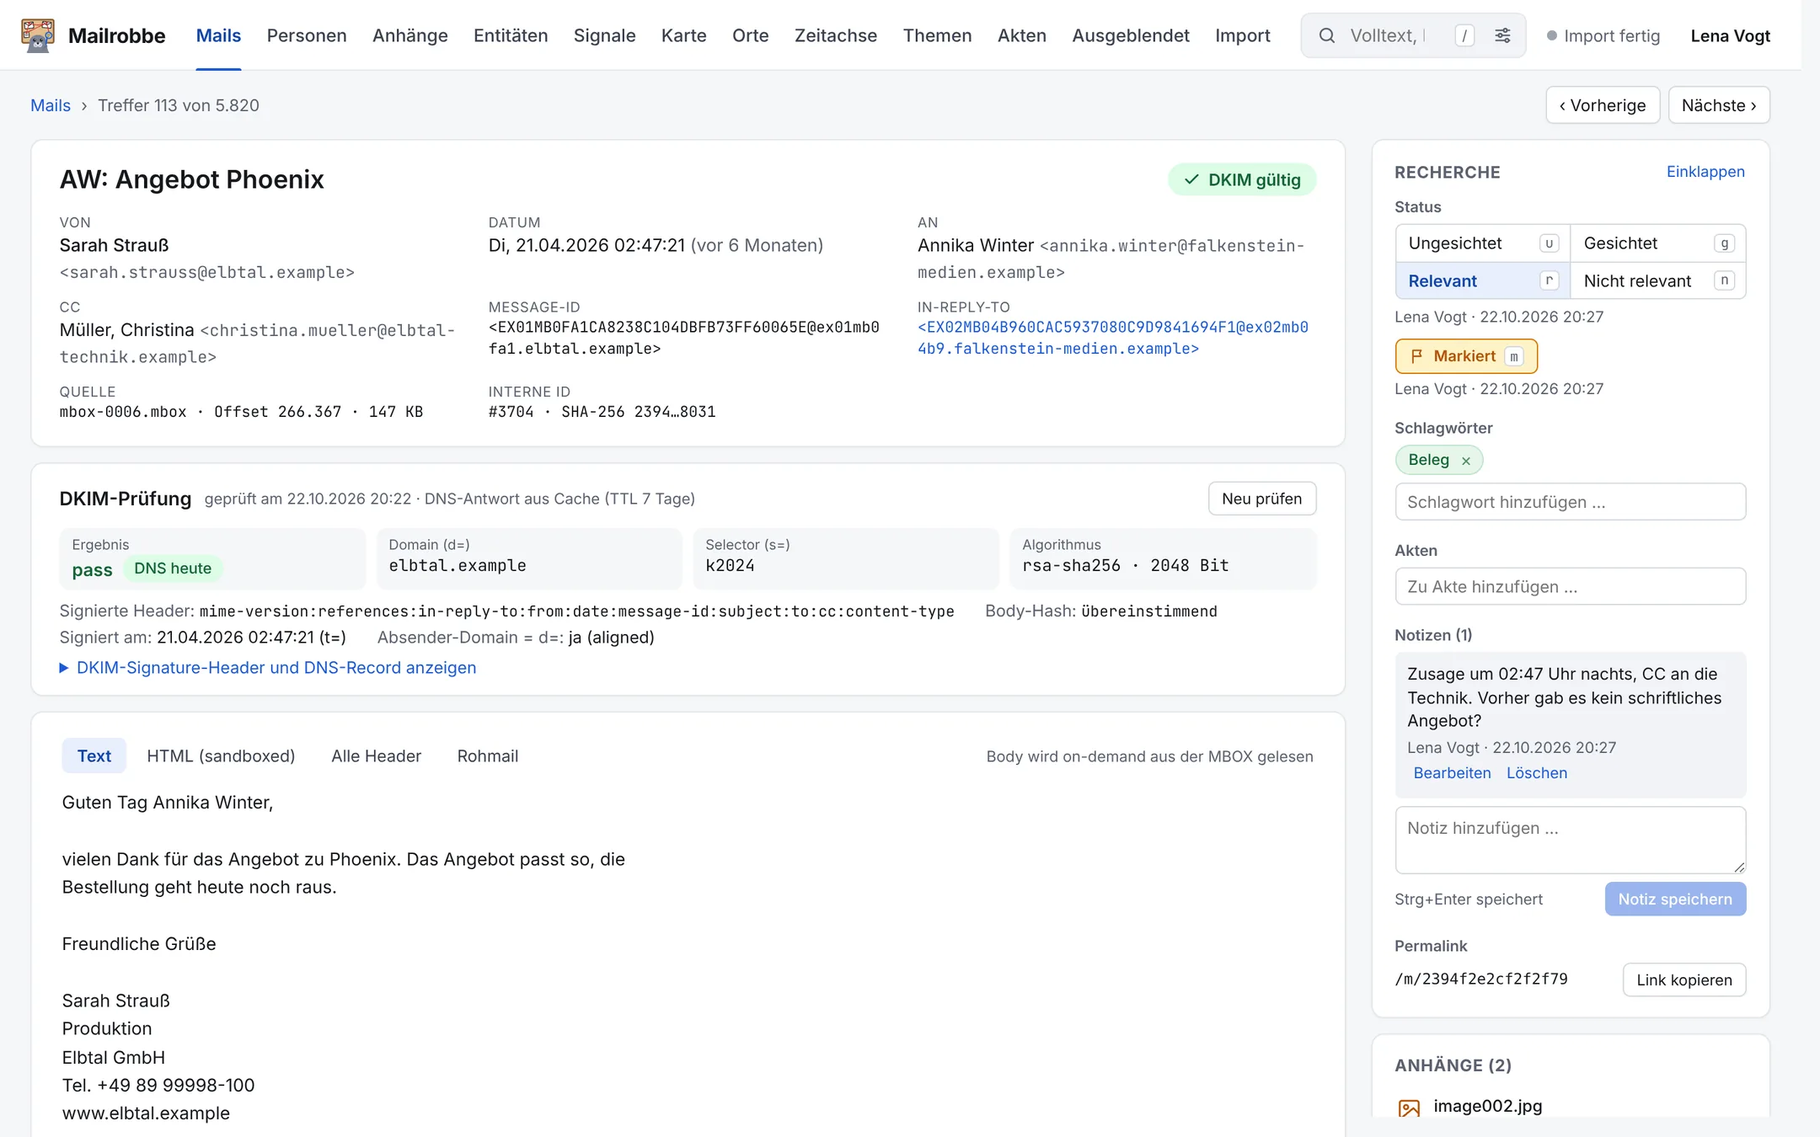
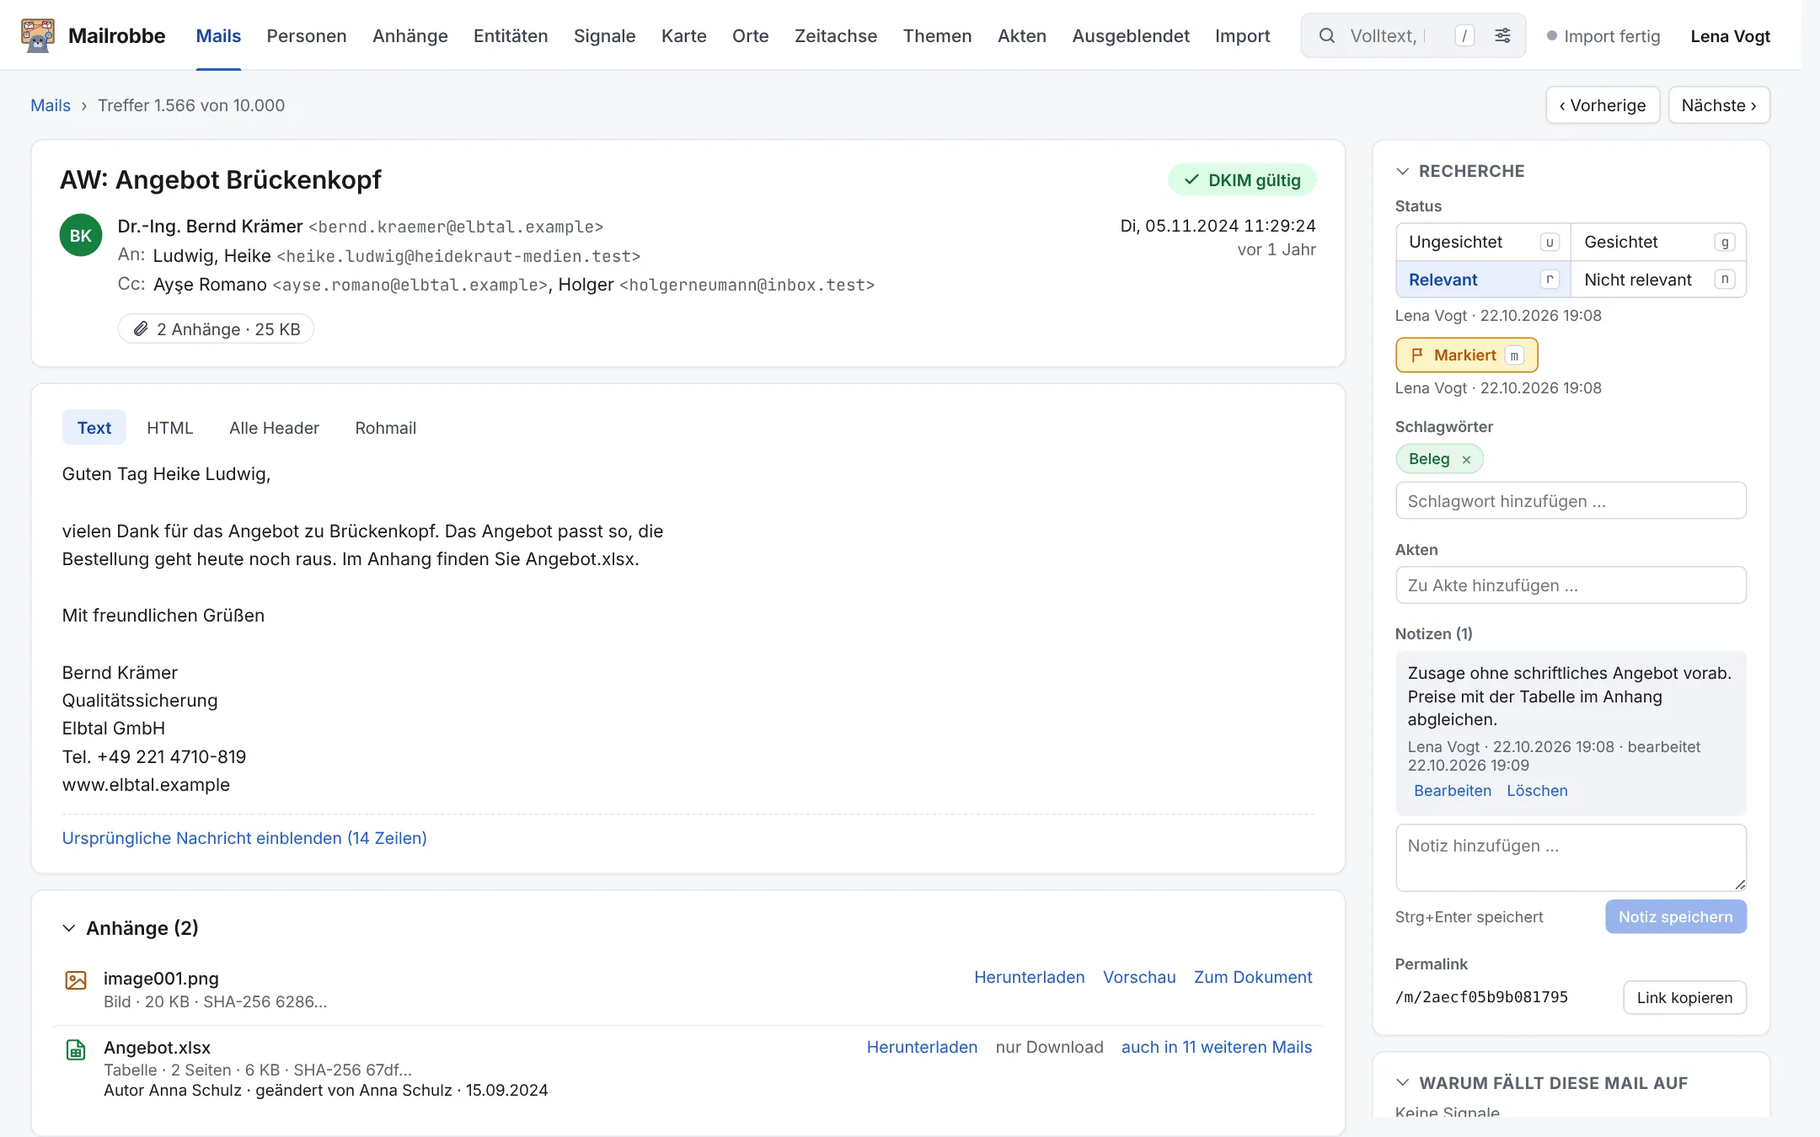
Record the mail detail as a mail program (D195) and show it in the README
Claude-Session: https://claude.ai/code/session_01Lo6a35te2qmqpcw2iQJLs6

diff --git a/site/index.html b/site/index.html
@@ -132,7 +132,7 @@
               </p>
               <p class="where">Mail-Detail, Filter „DKIM-Status“, Import: „Gelöschte Selektoren“</p>
             </div>
-            <a class="shot" href="img/mail.webp"><img src="img/mail.webp" alt="Mail-Detail mit DKIM-Prüfung, Prüfstatus, Schlagwort und Notiz" width="2160" height="1350" loading="lazy" /></a>
+            <a class="shot" href="img/mail.webp"><img src="img/mail.webp" alt="Mail-Detail mit DKIM-Status, Anhängen, Prüfstatus, Schlagwort und Notiz" width="2160" height="1350" loading="lazy" /></a>
           </article>
 
           <article class="feature">

diff --git a/CLAUDE.md b/CLAUDE.md
@@ -17,9 +17,9 @@ Local web software that imports large MBOX archives (target: about 400,000 mails
 - `src/mailrobbe/db/`: ORM models mirroring the migrations, engine and session helpers
 - `src/mailrobbe/migrations/`: Alembic environment and hand-written revisions (the schema's source of truth)
 - `src/mailrobbe/api/`: FastAPI app (`create_app`). `schemas.py` is the HTTP contract (endpoint list in its docstring), mirrored by hand in `frontend/src/api/types.ts`; `deps.py` (session, settings, `api_error`, editor name), `query.py` (search syntax), `fulltext.py` (the full text words of a search: groups, places, whole words, counted words, the parts of the text and proximity, D170 to D178, D226, D229), `filters.py` (filters to SQL, keyset cursor, bounded walk), `paging.py` (jumps to a page number: OFFSET from the nearer end within the count budget, D193), `hits.py` (how often the search words occur, by place: min_hits and the list's hits, D174, D176), `mails.py` (list, counts, neighbours, CSV), `stats.py` (global figures), `selection.py` (the mails of a bulk change or export), `detail.py` (one mail, recheck, its research data), `near.py` (the near duplicates of one mail and the list's counts, D153), `events.py` (calendar events of a mail and of a person, D155), `keys.py` (keys of deleted selectors: selector list and page, manual keys, raw answers, archive preview, key runs), `documents.py` (document list, summary, page, text, metadata values, attachment downloads, the search hits of one mail), `body.py` (text/HTML/headers/raw views of a raw mail), `persons.py` (person list, profile, contacts, mail counts, alias suggestions, merges), `research.py` (research file: overview, themes, tags, Akten, saved searches, permalinks), `marks.py` (review status and bookmark, tag and Akte links, bulk changes), `notes.py` (notes and the note list), `exports.py` (export ZIP and PDF of one mail), `social.py` (the picture of one mail for social media and what it blacks out, D214), `graph.py` (map excerpt, size, GraphML download), `timeline.py` (timeline: total, series, marks, first mentions), `entities.py` (entity list, page, refs, facets of the mail list, entities of one mail), `signals.py` (signal overview, signal facets of the mail list, signals of one mail and of one person), `topics.py` (topics: terms per period, terms of a selection, clusters), `hiding.py` (hide rules: list, preview, save, suggestions, D221 to D223), `blocks.py` (standard blocks: summary, list, one block, the team's choice, D225, D227), `imports.py` (import dashboard: status, summary, errors, start, pause, rescan, DKIM run), `processes.py` (the dashboard's runs as child processes), `auth.py` (Basic Auth), `frontend.py` (serves the built UI)
-- `frontend/`: React + TypeScript + Vite (D1, D27); `src/api/` (contract types, client, hooks), `src/components/` (shell and shared parts), `src/features/<screen>/`, `src/routes.tsx` (one line per screen); the map (`features/graph/`) draws with Cytoscape.js in its own lazy chunk, with layouts and SVG export of its own (D41 to D45); the Akten screens (`features/research/`), the attachment screens (`features/documents/`), the timeline (`features/timeline/`, D90), the entity screens (`features/entities/`), the selector screens of deleted DKIM selectors (`features/keys/`), the signal overview (`features/signals/`, D137) and the topics screen (`features/topics/`, D148), the hide rules (`features/hiding/`, D223) and the standard blocks (`features/blocks/`, D227) load lazily too; `features/preview/` shows an attachment's preview (D120), from the mail detail in an overlay, images in a large view with zoom (`ImageViewer`, D165); `components/CompactBar` is the narrow bar of the mail detail and the document page (D166); `features/search/` is the header's search field with its search menu (D191); `features/social/` is the dialog of the picture for social media (D217), loaded lazily from the mail detail; the shell header is sticky and pages stick their columns and table heads below it at `--sticky-top` from `styles/global.css` (D190); `src/viewer/` is the PDF viewer, a bundle of its own (`vite.viewer.config.ts`, built by `npm run build` into `dist/viewer/`, D121); `src/lib/paging.ts` is the one rule of page, cursor and page size in the URL and `components/Pagination` shows them (D193); `src/lib/editor.ts` keeps the editor name (D54), `src/lib/person.ts` the name a person is shown by (`personName`, D157)
+- `frontend/`: React + TypeScript + Vite (D1, D27); `src/api/` (contract types, client, hooks), `src/components/` (shell and shared parts), `src/features/<screen>/`, `src/routes.tsx` (one line per screen); the map (`features/graph/`) draws with Cytoscape.js in its own lazy chunk, with layouts and SVG export of its own (D41 to D45); the Akten screens (`features/research/`), the attachment screens (`features/documents/`), the timeline (`features/timeline/`, D90), the entity screens (`features/entities/`), the selector screens of deleted DKIM selectors (`features/keys/`), the signal overview (`features/signals/`, D137) and the topics screen (`features/topics/`, D148), the hide rules (`features/hiding/`, D223) and the standard blocks (`features/blocks/`, D227) load lazily too; `features/preview/` shows an attachment's preview (D120), from the mail detail in an overlay, images in a large view with zoom (`ImageViewer`, D165); `components/CompactBar` is the narrow bar of the mail detail and the document page (D166); `components/FoldCard` is a block that folds by its heading, remembered per block by `src/lib/folds.ts` (D195); `features/search/` is the header's search field with its search menu (D191); `features/social/` is the dialog of the picture for social media (D217), loaded lazily from the mail detail; the shell header is sticky and pages stick their columns and table heads below it at `--sticky-top` from `styles/global.css` (D190); `src/viewer/` is the PDF viewer, a bundle of its own (`vite.viewer.config.ts`, built by `npm run build` into `dist/viewer/`, D121); `src/lib/paging.ts` is the one rule of page, cursor and page size in the URL and `components/Pagination` shows them (D193); `src/lib/editor.ts` keeps the editor name (D54), `src/lib/person.ts` the name a person is shown by (`personName`, D157)
 - `src/mailrobbe/api/`: FastAPI app (`create_app`). `schemas.py` is the HTTP contract (endpoint list in its docstring), mirrored by hand in `frontend/src/api/types.ts`; `deps.py` (session, settings, `api_error`, editor name), `query.py` (search syntax), `fulltext.py` (the full text words of a search: groups, places, whole words, counted words, the parts of the text and proximity, D170 to D178, D226, D229), `filters.py` (filters to SQL, keyset cursor, bounded walk), `paging.py` (jumps to a page number: OFFSET from the nearer end within the count budget, D193), `hits.py` (how often the search words occur, by place: min_hits and the list's hits, D174, D176), `mails.py` (list, counts, neighbours, CSV), `stats.py` (global figures), `selection.py` (the mails of a bulk change or export), `detail.py` (one mail, recheck, its research data), `near.py` (the near duplicates of one mail and the list's counts, D153), `events.py` (calendar events of a mail and of a person, D155), `keys.py` (keys of deleted selectors: selector list and page, manual keys, raw answers, archive preview, key runs), `documents.py` (document list, summary, page, text, metadata values, attachment downloads, the search hits of one mail), `protected.py` (a document's password and container on its page, passwords typed in by hand, D237), `body.py` (text/HTML/headers/raw views of a raw mail), `persons.py` (person list, profile, contacts, mail counts, alias suggestions, merges), `research.py` (research file: overview, themes, tags, Akten, saved searches, permalinks), `marks.py` (review status and bookmark, tag and Akte links, bulk changes), `notes.py` (notes and the note list), `exports.py` (export ZIP and PDF of one mail), `graph.py` (map excerpt, size, GraphML download), `timeline.py` (timeline: total, series, marks, first mentions), `entities.py` (entity list, page, refs, facets of the mail list, entities of one mail), `signals.py` (signal overview, signal facets of the mail list, signals of one mail and of one person), `topics.py` (topics: terms per period, terms of a selection, clusters), `hiding.py` (hide rules: list, preview, save, suggestions, D221 to D223), `blocks.py` (standard blocks: summary, list, one block, the team's choice, D225, D227), `places.py` (places: summary, photos with a position, one photo, photos around a point, places of texts and invitations, D247, D248), `maps.py` (the overview map's towns, the detail map: status, download run, delete, its PMTiles file with Range requests, D244 to D246), `imports.py` (import dashboard: status, summary, errors, start, pause, rescan, DKIM run), `processes.py` (the dashboard's runs as child processes), `auth.py` (Basic Auth), `frontend.py` (serves the built UI)
-- `frontend/`: React + TypeScript + Vite (D1, D27); `src/api/` (contract types, client, hooks), `src/components/` (shell and shared parts), `src/features/<screen>/`, `src/routes.tsx` (one line per screen); the map (`features/graph/`) draws with Cytoscape.js in its own lazy chunk, with layouts and SVG export of its own (D41 to D45); the Akten screens (`features/research/`), the attachment screens (`features/documents/`), the timeline (`features/timeline/`, D90), the entity screens (`features/entities/`), the selector screens of deleted DKIM selectors (`features/keys/`), the signal overview (`features/signals/`, D137) and the topics screen (`features/topics/`, D148), the hide rules (`features/hiding/`, D223), the standard blocks (`features/blocks/`, D227) and the places page (`features/places/`, D247: MapLibre GL JS with the shipped overview map of `public/map/` and the detail map read by range requests, D244, D245) load lazily too; `features/preview/` shows an attachment's preview (D120), from the mail detail in an overlay, images in a large view with zoom (`ImageViewer`, D165); `components/CompactBar` is the narrow bar of the mail detail and the document page (D166); `features/search/` is the header's search field with its search menu (D191); the shell header is sticky and pages stick their columns and table heads below it at `--sticky-top` from `styles/global.css` (D190); `src/viewer/` is the PDF viewer, a bundle of its own (`vite.viewer.config.ts`, built by `npm run build` into `dist/viewer/`, D121); `src/lib/paging.ts` is the one rule of page, cursor and page size in the URL and `components/Pagination` shows them (D193); `src/lib/editor.ts` keeps the editor name (D54), `src/lib/person.ts` the name a person is shown by (`personName`, D157)
+- `frontend/`: React + TypeScript + Vite (D1, D27); `src/api/` (contract types, client, hooks), `src/components/` (shell and shared parts), `src/features/<screen>/`, `src/routes.tsx` (one line per screen); the map (`features/graph/`) draws with Cytoscape.js in its own lazy chunk, with layouts and SVG export of its own (D41 to D45); the Akten screens (`features/research/`), the attachment screens (`features/documents/`), the timeline (`features/timeline/`, D90), the entity screens (`features/entities/`), the selector screens of deleted DKIM selectors (`features/keys/`), the signal overview (`features/signals/`, D137) and the topics screen (`features/topics/`, D148), the hide rules (`features/hiding/`, D223), the standard blocks (`features/blocks/`, D227) and the places page (`features/places/`, D247: MapLibre GL JS with the shipped overview map of `public/map/` and the detail map read by range requests, D244, D245) load lazily too; `features/preview/` shows an attachment's preview (D120), from the mail detail in an overlay, images in a large view with zoom (`ImageViewer`, D165); `components/CompactBar` is the narrow bar of the mail detail and the document page (D166); `components/FoldCard` is a block that folds by its heading, remembered per block by `src/lib/folds.ts` (D195); `features/search/` is the header's search field with its search menu (D191); the shell header is sticky and pages stick their columns and table heads below it at `--sticky-top` from `styles/global.css` (D190); `src/viewer/` is the PDF viewer, a bundle of its own (`vite.viewer.config.ts`, built by `npm run build` into `dist/viewer/`, D121); `src/lib/paging.ts` is the one rule of page, cursor and page size in the URL and `components/Pagination` shows them (D193); `src/lib/editor.ts` keeps the editor name (D54), `src/lib/person.ts` the name a person is shown by (`personName`, D157)
 - `src/mailrobbe/generator/`: synthetic MBOX test data (SPEC 3.6). `model.py` documents the stage pipeline; `population.py` (persons, domains, aliases), `planner.py` (streaming plan: threads, lists, Cc chains), `render.py` (MIME), `faults.py` (defects, duplicates), `dkim.py` (keys, selectors, signing), `invitations.py` (calendar invitations, answers and cancellations as Outlook, web calendars and Apple write them, D154), `writer.py` (mboxrd, manifest), `pipeline.py` (worker pool); `media/` holds the committed recordings and pictures the generated attachments use (D125)
 - `src/mailrobbe/dkim/`: DKIM verification (SPEC 3.4, decisions D10 to D13); the package docstring lists the modules. `verify_mail` is pure, `DkimChecker` (one per process) adds the cached key sources, `store.py` writes `dkim_result`/`dns_cache`, `mailrobbe dkim` rechecks. `override.py` is the DNS override table for tests and generated data
 - `src/mailrobbe/dkim/keys/`: keys of deleted selectors (D100 to D105, [docs/DKIM-RECOVERY.md](docs/DKIM-RECOVERY.md)); the package docstring lists the modules. `store.py` is the one place writing `dkim_key`, `dkim_key_lookup` and `dkim_key_evidence` and loads the candidate keys the checker tries after DNS; `mailrobbe dkim-keys` reconstructs keys from signatures (gmpy2), searches the archive's texts and asks the ZK Email archive, each as a job of kind `dkim_keys`

diff --git a/docs/DECISIONS.md b/docs/DECISIONS.md
@@ -161,6 +161,7 @@ Binding decisions for Mailrobbe beyond docs/SPEC.md. New entries get the next nu
 | D192 | Modern finish without new dependencies | Shared components get transitions, hover and pressed states, a light card shadow (`--shadow-card`), thin scrollbars for inner scroll areas, tabular figures in tables; `prefers-reduced-motion` turns transitions off. No component library, no polyfill: the Popover API and CSS anchor positioning were weighed for the menu and not used, since Firefox lacks anchor positioning and the menu needs no top layer inside the sticky header. | 2026-10-21 |
 | D193 | Paging with page numbers (Aaron, 2026-10-22: a working pagination, not only forward and back; revises the paging of D19) | Lists page with numbers: the first and the last page, the pages around the current one, a field to jump to a page, and the page size (25, 50, 100 or 200) in the URL. Zurück and Weiter stay keyset steps (D19). A jump reads its page by OFFSET in the list order from the nearer end, the second half in reverse order, so no jump passes more than half the list, and it is bounded by the count budget of D19: what does not answer in time says so instead of waiting. Pages are numbered as far as the total is known: all of them with an exact total, those within the count with "mehr als 10.000", and the last page is reached from the end even then. This holds wherever a list pages: mails, a person's mails, persons, documents, a document's mails, entities, selectors and standard blocks. | 2026-10-22 |
 | D194 | README and project page (Aaron, 2026-10-22: a README built like his other repositories, a small website with screenshots, the donation links; no CI or stack badges) | The README follows zettelrobbe and glinet-tailscale-updater without their emojis (CLAUDE.md): wordmark, tagline and the donation badges in the header (Aaron, 2026-10-22: the sponsor buttons up by the logo, as glinet-tailscale-updater has them), section links, the table of questions, the features with a few screenshots, a note on backing up the research file, quick start, settings, search syntax, questions in quotes and a disclaimer; the only badges are the donation links. The website is static German HTML and CSS in `site/` without external requests; its one inline script opens the screenshots in a lightbox (a modal `<dialog>`: click to enlarge to 2160 px, arrow keys page through, Esc or a click beside the picture closes; without the script the links open the picture itself), published to https://mailrobbe.admon.me by `.github/workflows/pages.yml` whenever `site/` or a logo file changes on main (Settings, Pages, source "GitHub Actions"); the workflow adds the logo files from `frontend/public/` and `docs/logo/`. Screenshots come only from the generated test archive (`mailrobbe generate`, with demo Akten, notes and hide rules added through the API), never from a real archive; they are WebP at 2160 px width in `site/img/`, shared by the website and the README. | 2026-10-22 |
+| D195 | Mail detail as a mail program (Aaron, 2026-10-22: the DKIM check takes too much room, every block should fold and stay as left, many attachments make the side column long, less technical; variant A of the mockup chosen; revises the attachments' place of D166) | The main column shows the mail as a mail program does: the subject with the DKIM badge, the sender with its initials, An, Cc and Bcc below, the date at the right, and the number and size of the attachments; then the text and the attachments as a list below it, one row each (kind in words with the MIME type on hover, pages, size, SHA-256, the metadata line of D167, download, preview, document), the first eight and those holding a search word as before. Below them the DKIM check and a block "Technische Angaben" (Message-ID, In-Reply-To, source in the MBOX file, internal id) stand folded to one line with a summary; the badge and the attachment count open their block and scroll to it, and "Neu prüfen" works folded and opens it. Every block of the page folds by its heading and the browser remembers it per block in `mailrobbe.folds` (replacing D166's own key of the research card): open at first are research, signals, participants, thread, near duplicates, the invitation and the attachments; folded at first are the DKIM check, the technical fields, the entities, hiding and the actions. The text label "Nicht unterstützt" no longer shows beside pictures and recordings, since the kind says it, and the body's tabs drop "sandboxed" and the note on reading from the MBOX file. Nothing is removed: every field and action stays one click away. | 2026-10-22 |
 | D196 | Windows (Aaron, 2026-10-22: Docker Desktop on a PC works too, also with WSL; extends D7) | Windows with Docker Desktop and its WSL 2 backend is a target like macOS and Linux. The README and the website say to run the commands in a WSL terminal, where a drive D: is `/mnt/d`, and that MBOX files inside the WSL file system read faster than those on a Windows drive; Docker's memory there is WSL's, by default half of the machine's. `.gitattributes` keeps LF in every checkout, since Git for Windows would otherwise write `docker/entrypoint.sh` with CRLF and the container would not start. | 2026-10-22 |
 | D200 | Research features (Aaron, 2026-10-22: link things, find background; plan with 14 questions, answered "passt so") | Six milestones after the parked AI plan (M15 to M17, whose numbers D180 to D189 stay free): M18 sharper search (hide rules, standard blocks, own words only, proximity), M19 protected and packed attachments, M20 places, M21 traces in texts, M22 evidence and matching lists, M23 the network of persons. Order: M18 first, then M19 and M20 side by side, then M21, M22 and M23; only M21 builds on M18. Each works on the archive as imported, new data comes from steps of the import run (D110). Their decisions start at D220 (M18), D230 (M19), D240 (M20), D250 (M21), D260 (M22) and D270 (M23). | 2026-10-22 |
 | D201 | Whose hide rules | The team's: every rule applies to everyone, with the name of who made and last changed it and when (D54). The switch "Ausgeblendete einbeziehen" in the search menu shows the hidden mails at any time. | 2026-10-22 |

diff --git a/README.md b/README.md
@@ -71,7 +71,7 @@ Ausblendregeln nehmen Newsletter, Verteiler und Systemmails aus Liste und Suche,
 
 Jede DKIM-Signatur wird einzeln geprüft und mit Grund gespeichert. Gültig heißt: Die Mail wurde mit dem Schlüssel der Domain unterschrieben und ist seither unverändert. Bei älteren Mails steht der Schlüssel oft nicht mehr im DNS. Dann sucht Mailrobbe unter Import, „Gelöschte Selektoren“, auf Knopfdruck weiter: im Archiv selbst, in einem öffentlichen Schlüsselarchiv und rechnerisch aus zwei Signaturen. Jede Signatur sagt, woher ihr Schlüssel stammt.
 
-![Mail-Detail mit DKIM-Prüfung, Prüfstatus, Schlagwort und Notiz](site/img/mail.webp)
+![Mail-Detail mit DKIM-Status, Anhängen, Prüfstatus, Schlagwort und Notiz](site/img/mail.webp)
 
 ### Personen statt Adressen
 
